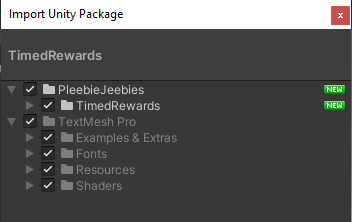
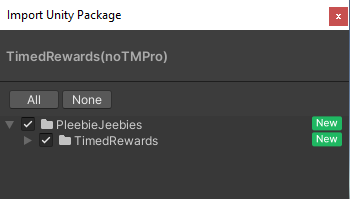
Update to Timed Rewards

diff --git a/TimedRewardsDocumentation.html b/TimedRewardsDocumentation.html
@@ -166,17 +166,17 @@ li {
 		
 		<div class="pushdown" id="files"></div>
 		<h2>Asset Files Hierarchy</h2>
-		<p>All files are located under <b>Assets/PleebieJeebies/TimedRewards/</b>. This asset also uses the <a href="https://docs.unity3d.com/Manual/com.unity.textmeshpro.html">TextMeshPro</a> asset with some of the files being altered under <b>Assets/TextMeshPro/Examples & Extras/Resources/Fonts & Materials/</b>.</p>
+		<p>All files are located under <b>Assets/PleebieJeebies/TimedRewards/</b>. This asset also uses the <a href="https://docs.unity3d.com/Manual/com.unity.textmeshpro.html">TextMeshPro</a> asset with files existing under <b>Assets/TextMeshPro/</b> after importing. See <a href="#install">Installation</a> for more detail.</p>
 		<div class="imageContainer">
 			<img src="TimedRewards/FileHierarchy.PNG" alt="File hierarchy">
 		</div>
 		
 		<h3>Prefabs Folder</h3>
 		<p>Inside the <b>Prefabs/</b> folder, you will find the three prefabs used in the Main Demo Scene, 
-		the <i>PJ_CurrencyController</i>, <i>PJ_TimedRewards</i>, and <i>PJ_UserInterface</i>, as well as some variants of the Timed Rewards prefab. 
+		the <i>PJ_CurrencyController</i>, <i>PJ_TimedRewards</i>, and <i>PJ_UserInterface</i>, some variants of the Timed Rewards prefab, as well as some TextMeshPro files. 
 		Any Timed Rewards prefab can be placed in a scene and function after having set up the desired rewards for users. <a href="#howto5">Read here for more information 
 		on how to set up rewards</a>. The Currency Controller prefab is an optional addition to a scene which must be placed on a <a href="https://docs.unity3d.com/Packages/com.unity.ugui@1.0/manual/UICanvas.html">Canvas</a> and will display currency gained 
-		set up in the Timed Rewards list. The User Interface prefab contains a fully prepared and functional canvas for the Currency Controller and the Timed Rewards prefabs.</p>
+		set up in the Timed Rewards list. The User Interface prefab contains a fully prepared and functional canvas for the Currency Controller and the Timed Rewards prefabs. The TextMeshPro files are used for the fonts throughout the asset.</p>
 		
 		<h3>Scenes Folder</h3>
 		<p>Inside the <b>Scenes/</b> folder, you will find three functional sample scenes showcasing the Timed Rewards asset. These scenes have been prepared with prefabs to sample from and to quickly grasp an understanding of this asset. 
@@ -204,11 +204,12 @@ li {
 
 		<ul>
 			<li>Download the asset inside the Unity Editor <i>Package Manager</i> window (Window > Package Manager from the Unity Editor toolbar)</li>
-			<li>Import the entirety of the asset package into the project, including the TextMeshPro files. <u>Without these files, the asset will not work properly</u>. See the <a href="#files">Asset Files Hierarchy</a> TextMesh Pro section for more information.</li>
+			<li>Import the entirety of the asset package into the project.</li>
 			<div class="imageContainer">
 				<img src="TimedRewards/FileImport.PNG" alt="Import Entirety of Asset Package">
 			</div>
-			<li>If the TextMesh Pro asset is not already installed and imported, upon running a scene with the Timed Rewards prefab, Unity will prompt to import TMP Essentials; <u>this must be imported for text objects to appear properly</u>. Importing the Extras is not required.</li>
+			<li>If the TextMesh Pro asset is not already installed and imported, upon running a scene with the Timed Rewards prefab, Unity will prompt to import TMP Essentials; <u>this must be imported for text objects to appear properly</u>. Note that you can’t import while Unity is in ‘Play’ mode. 
+			Importing the Extras is not required. See the <a href="#files">Asset Files Hierarchy</a> TextMesh Pro section for more information.</li>
 			<div class="imageContainer">
 				<img src="TimedRewards/TextMeshProImport.PNG" alt="Import Entirety of Asset Package">
 			</div>
